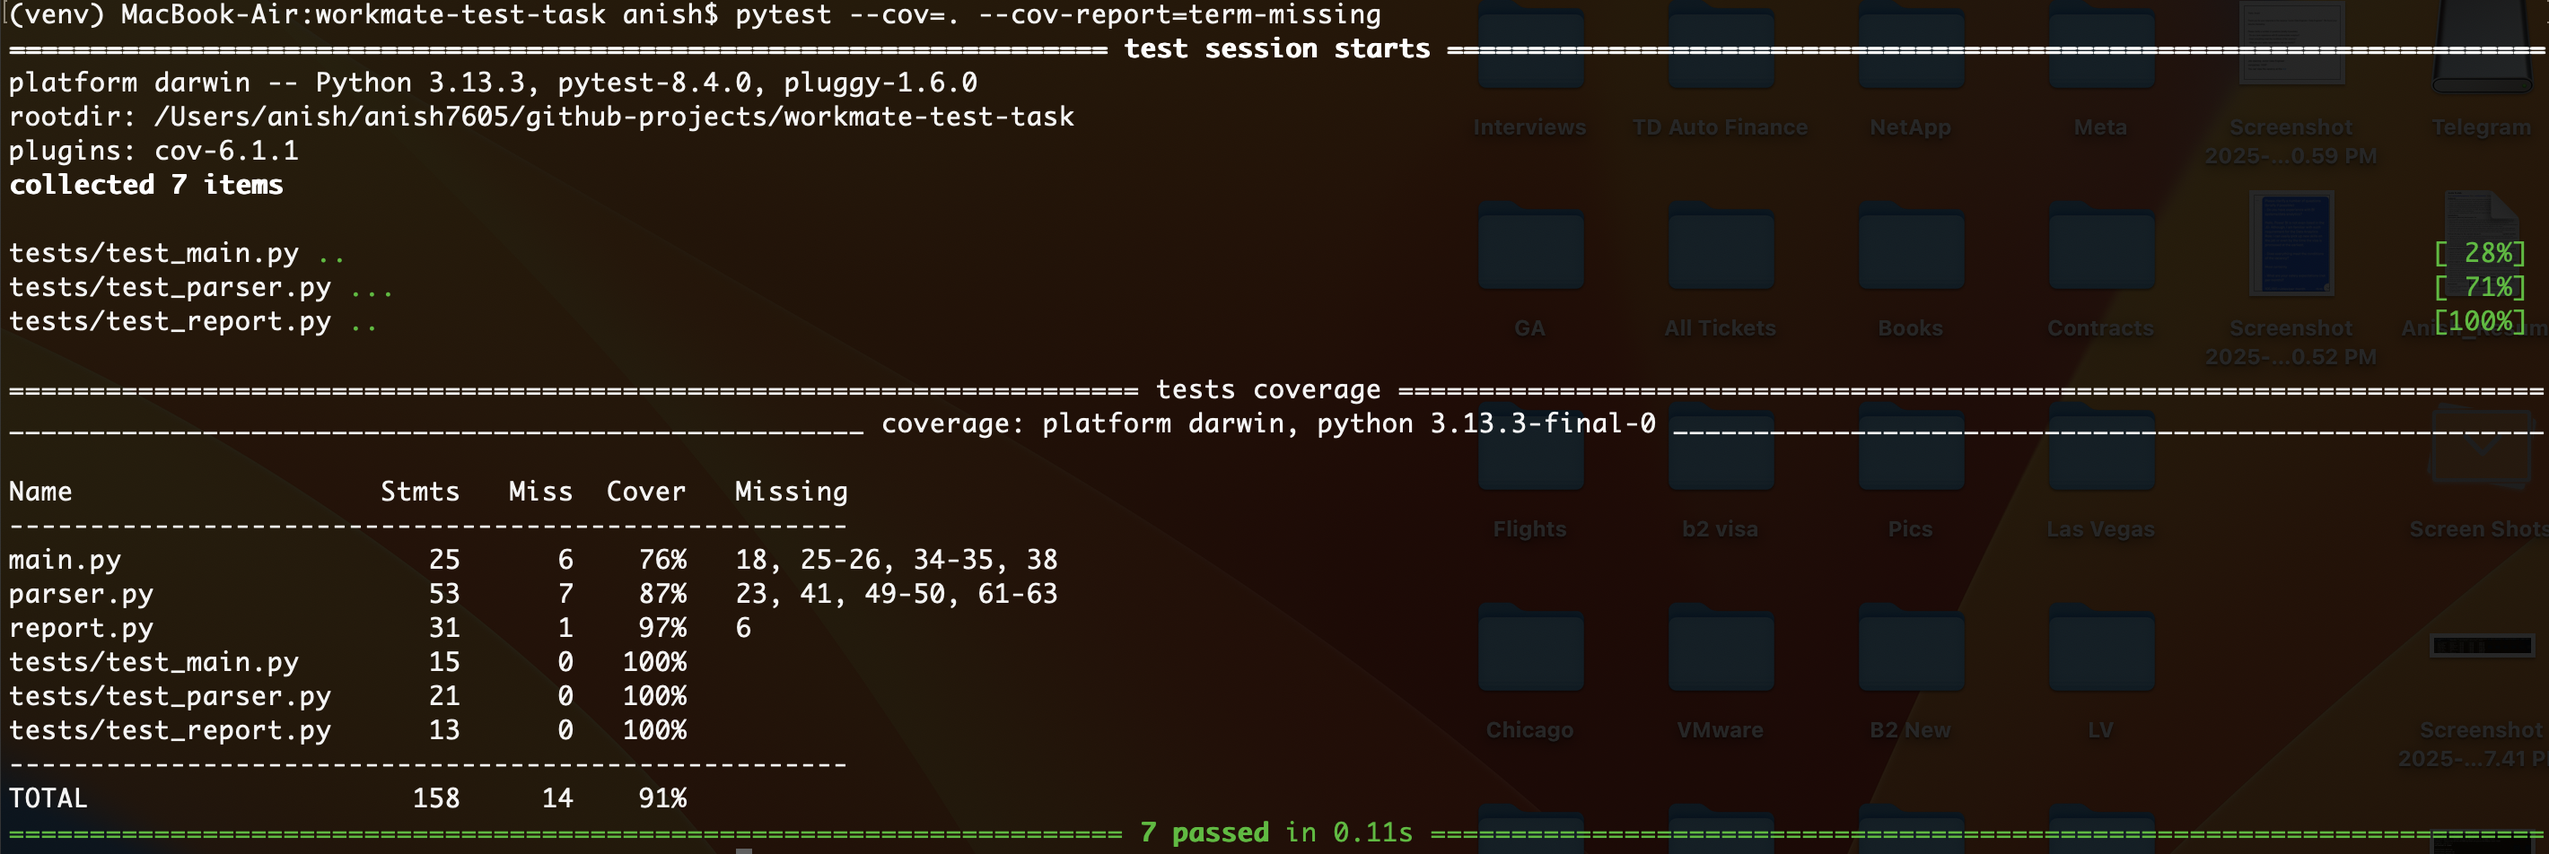
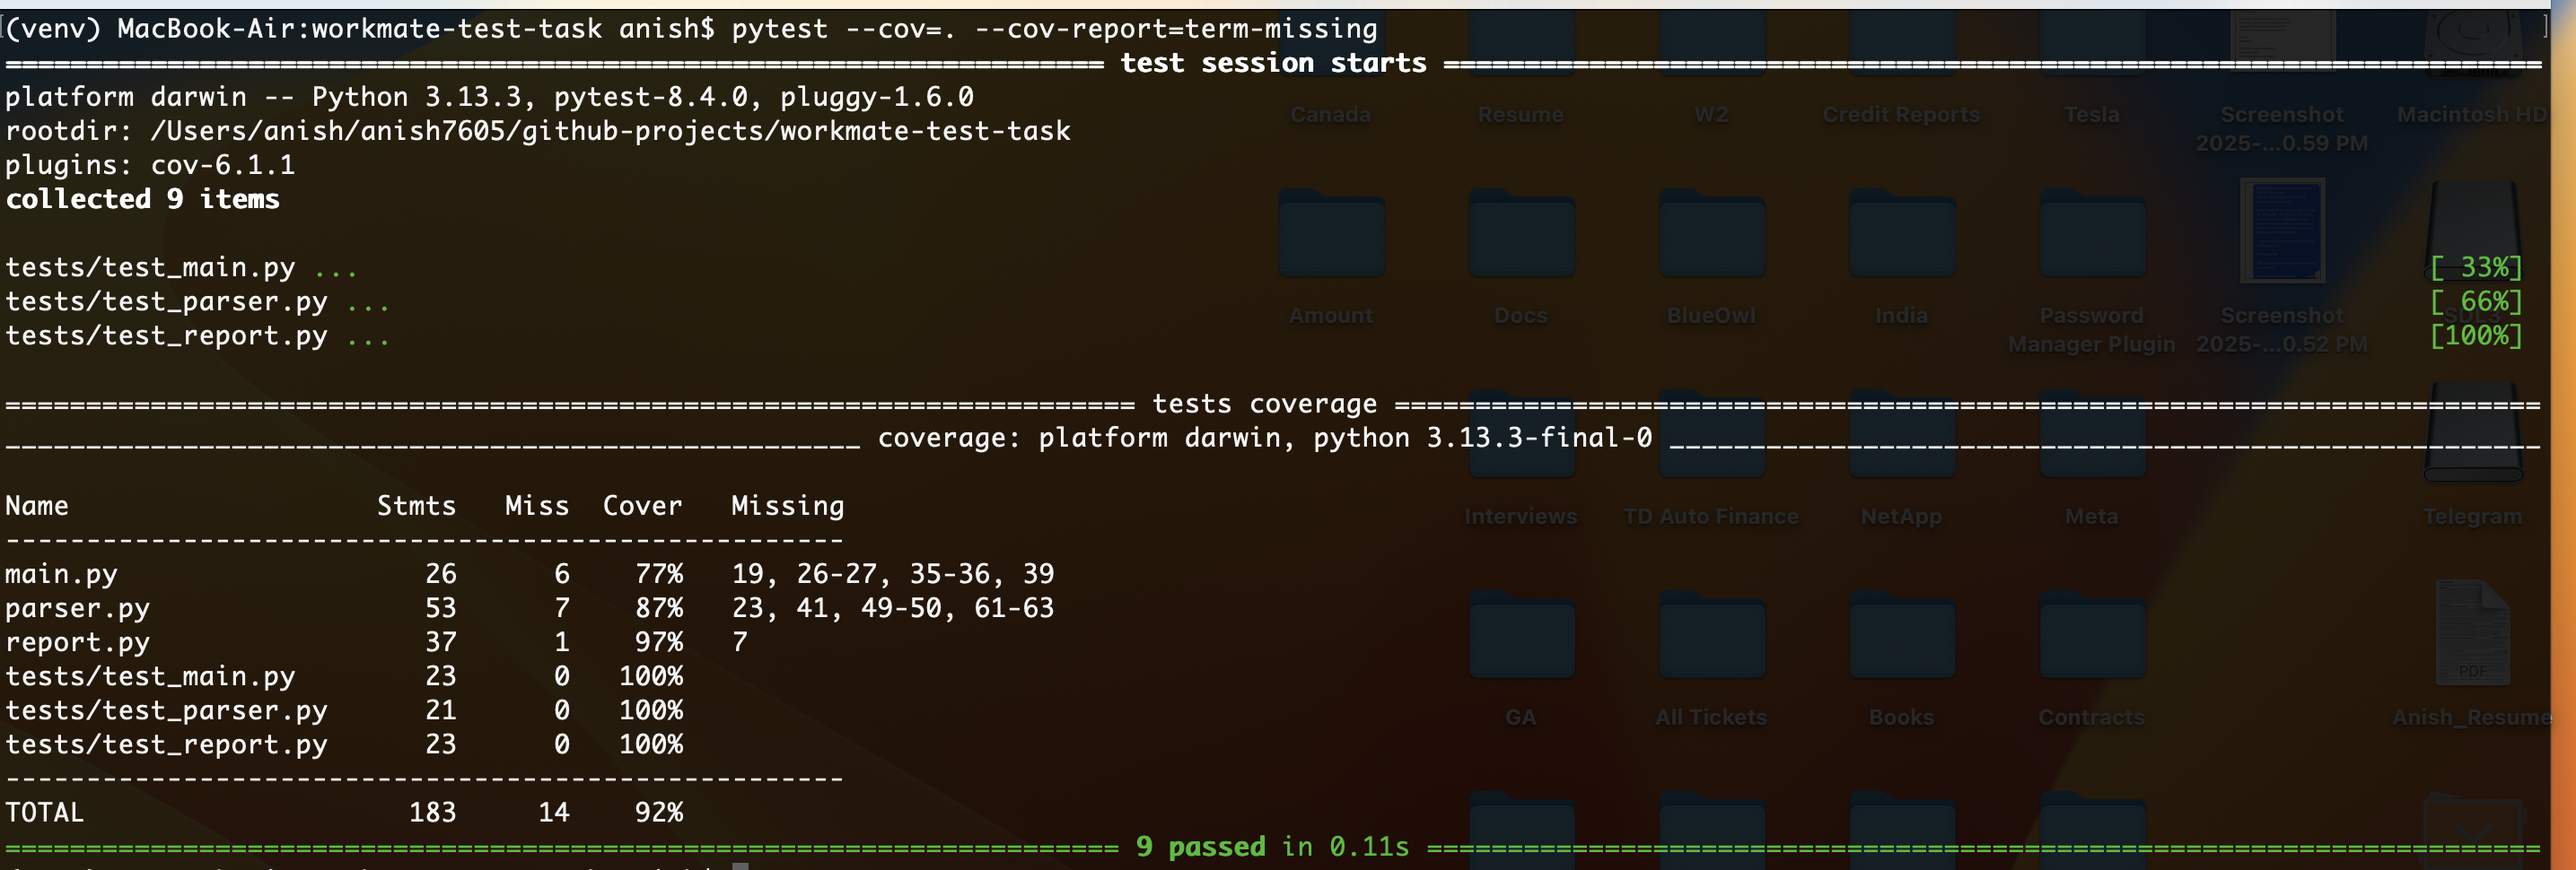
JSON Output
Changes:

- Added --format argument with choices table and json, defaulting to table.
- Passed output_format=args.format to report.generate.
- Added output_format parameter to Report.generate with default table.
- Renamed test_payout_report to test_payout_report_table.
- Added test_payout_report_json to verify JSON output structure.
- Updated test_payout_report_empty to check both formats.

diff --git a/report.py b/report.py
@@ -1,45 +1,59 @@
 from typing import List, Dict, Any
+import json
 
 class Report:
     """Base class for reports."""
-    def generate(self, data: List[Dict[str, Any]]) -> str:
+    def generate(self, data: List[Dict[str, Any]], output_format: str = 'table') -> str:
         raise NotImplementedError
 
 class PayoutReport(Report):
-    """Generates a payroll report in tabular format."""
+    """Generates a payroll report in tabular or JSON format."""
     
-    def generate(self, data: List[Dict[str, Any]]) -> str:
-        """Generate a tabular payroll report with $ prefix."""
+    def generate(self, data: List[Dict[str, Any]], output_format: str = 'table') -> str:
+        """Generate a payroll report."""
         if not data:
-            return "No data to display."
+            return "No data to display." if output_format == 'table' else json.dumps([])
         
-        # Define table headers
-        headers = ["ID", "Name", "Department", "Hours Worked", "Hourly Rate", "Payout"]
-        rows = []
+        # Prepare report data
+        report_data = []
         for employee in data:
             payout = employee['hours_worked'] * employee['hourly_rate']
+            report_data.append({
+                'id': int(employee['id']),
+                'name': employee['name'],
+                'department': employee['department'],
+                'hours_worked': float(employee['hours_worked']),
+                'hourly_rate': float(employee['hourly_rate']),
+                'payout': float(round(payout, 2))
+            })
+
+        if output_format == 'json':
+            return json.dumps(report_data, indent=2, ensure_ascii=False)
+
+        # Tabular format
+        headers = ["ID", "Name", "Department", "Hours Worked", "Hourly Rate", "Payout"]
+        rows = []
+        for item in report_data:
             rows.append([
-                str(int(employee['id'])),  # Ensure ID is integer
-                employee['name'],
-                employee['department'],
-                f"{employee['hours_worked']:.2f}",  # 2 decimal places
-                f"${employee['hourly_rate']:.2f}",  # $ prefix for hourly rate
-                f"${round(payout, 2):.2f}"  # $ prefix for payout
+                str(item['id']),
+                item['name'],
+                item['department'],
+                f"{item['hours_worked']:.2f}",
+                f"${item['hourly_rate']:.2f}",
+                f"${item['payout']:.2f}"
             ])
-        
+
         # Calculate column widths
         widths = [len(header) for header in headers]
         for row in rows:
             for i, cell in enumerate(row):
                 widths[i] = max(widths[i], len(cell))
-        
+
         # Build table
         output = []
-        # Header row
         header_row = " | ".join(f"{header:<{widths[i]}}" for i, header in enumerate(headers))
         output.append(header_row)
-        output.append("-" * (sum(widths) + 3 * (len(headers) - 1)))  # Separator
-        # Data rows
+        output.append("-" * (sum(widths) + 3 * (len(headers) - 1)))
         for row in rows:
             row_str = " | ".join(f"{cell:<{widths[i]}}" for i, cell in enumerate(row))
             output.append(row_str)

diff --git a/tests/test_report.py b/tests/test_report.py
@@ -1,19 +1,41 @@
 import pytest
+import json
 from report import PayoutReport
 
-def test_payout_report():
+def test_payout_report_table():
     data = [
         {'id': 1, 'name': 'Alice', 'department': 'Marketing', 'hours_worked': 160, 'hourly_rate': 50},
         {'id': 2, 'name': 'Bob', 'department': 'Design', 'hours_worked': 150, 'hourly_rate': 40}
     ]
     report = PayoutReport()
-    output = report.generate(data)
-    
+    output = report.generate(data, output_format='table')
+
     assert "ID | Name  | Department | Hours Worked | Hourly Rate | Payout" in output
     assert "1  | Alice | Marketing  | 160.00       | $50.00      | $8000.00" in output
     assert "2  | Bob   | Design     | 150.00       | $40.00      | $6000.00" in output
 
+def test_payout_report_json():
+    data = [
+        {'id': 1, 'name': 'Alice', 'department': 'Marketing', 'hours_worked': 160, 'hourly_rate': 50},
+        {'id': 2, 'name': 'Bob', 'department': 'Design', 'hours_worked': 150, 'hourly_rate': 40}
+    ]
+    report = PayoutReport()
+    output = report.generate(data, output_format='json')
+    result = json.loads(output)
+
+    assert len(result) == 2
+    assert result[0] == {
+        'id': 1,
+        'name': 'Alice',
+        'department': 'Marketing',
+        'hours_worked': 160.0,
+        'hourly_rate': 50.0,
+        'payout': 8000.0
+    }
+
 def test_payout_report_empty():
     report = PayoutReport()
-    output = report.generate([])
-    assert output == "No data to display."
+    table_output = report.generate([], output_format='table')
+    json_output = report.generate([], output_format='json')
+    assert table_output == "No data to display."
+    assert json_output == "[]"

diff --git a/tests/test_main.py b/tests/test_main.py
@@ -3,7 +3,7 @@ from unittest.mock import patch
 from main import main
 
 @patch('sys.argv', ['main.py', 'sample_data/data1.csv', '--report', 'payout'])
-def test_main_valid_input(capsys):
+def test_main_valid_input_table(capsys):
     with patch('parser.CSVParser.parse', return_value=[
         {'id': 1, 'name': 'Alice', 'department': 'Marketing', 'hours_worked': 160, 'hourly_rate': 50}
     ]):
@@ -11,6 +11,17 @@ def test_main_valid_input(capsys):
         captured = capsys.readouterr()
         assert "ID | Name  | Department | Hours Worked | Hourly Rate | Payout" in captured.out
         assert "1  | Alice | Marketing  | 160.00       | $50.00      | $8000.00" in captured.out
+
+@patch('sys.argv', ['main.py', 'sample_data/data1.csv', '--report', 'payout', '--format', 'json'])
+def test_main_valid_input_json(capsys):
+    with patch('parser.CSVParser.parse', return_value=[
+        {'id': 1, 'name': 'Alice', 'department': 'Marketing', 'hours_worked': 160, 'hourly_rate': 50}
+    ]):
+        main()
+        captured = capsys.readouterr()
+        assert '"payout": 8000.0' in captured.out
+        assert '"hours_worked": 160.0' in captured.out
+        assert '"hourly_rate": 50.0' in captured.out
 
 @patch('sys.argv', ['main.py', 'sample_data/dummy.csv', '--report', 'invalid'])
 def test_main_invalid_report(capsys):

diff --git a/main.py b/main.py
@@ -4,14 +4,15 @@ from report import ReportFactory
 
 def main():
     parser = argparse.ArgumentParser(description="Employee payroll report generator")
-    parser.add_argument('files', nargs='*', help="CSV files to process")  # Files optional
+    parser.add_argument('files', nargs='*', help="CSV files to process")
     parser.add_argument('--report', required=True, help="Report type (e.g., payout)")
+    parser.add_argument('--format', choices=['table', 'json'], default='table', help="Output format (table or json)")
     
     args = parser.parse_args()
     
     try:
-        # Validate report type before parsing files
-        report = ReportFactory.create_report(args.report)  # Raises ValueError for invalid report
+        # Validate report type
+        report = ReportFactory.create_report(args.report)
         
         # Check for input files
         if not args.files:
@@ -26,7 +27,7 @@ def main():
             return
         
         # Generate report
-        output = report.generate(employees)
+        output = report.generate(employees, output_format=args.format)
         print(output)
         
     except ValueError as e:

diff --git a/README.md b/README.md
@@ -19,6 +19,34 @@ This script processes employee data from CSV files and generates a payroll repor
     python3 main.py sample_data/data1.csv sample_data/data2.csv sample_data/data3.csv --report payout
     ```
 
+    For JSON output:
+
+    ```bash
+    python3 main.py sample_data/data1.csv --report payout --format json
+    ```
+
+    <pre>
+    [
+        {
+            "id": 1,
+            "name": "Alice Johnson",
+            "department": "Marketing",
+            "hours_worked": 160.0,
+            "hourly_rate": 50.0,
+            "payout": 8000.0
+        },
+        {
+            "id": 2,
+            "name": "Bob Smith",
+            "department": "Design",
+            "hours_worked": 150.0,
+            "hourly_rate": 40.0,
+            "payout": 6000.0
+        }
+    ]
+    </pre>
+
+
 4. Adding New Reports
 
 - To add a new report type:
